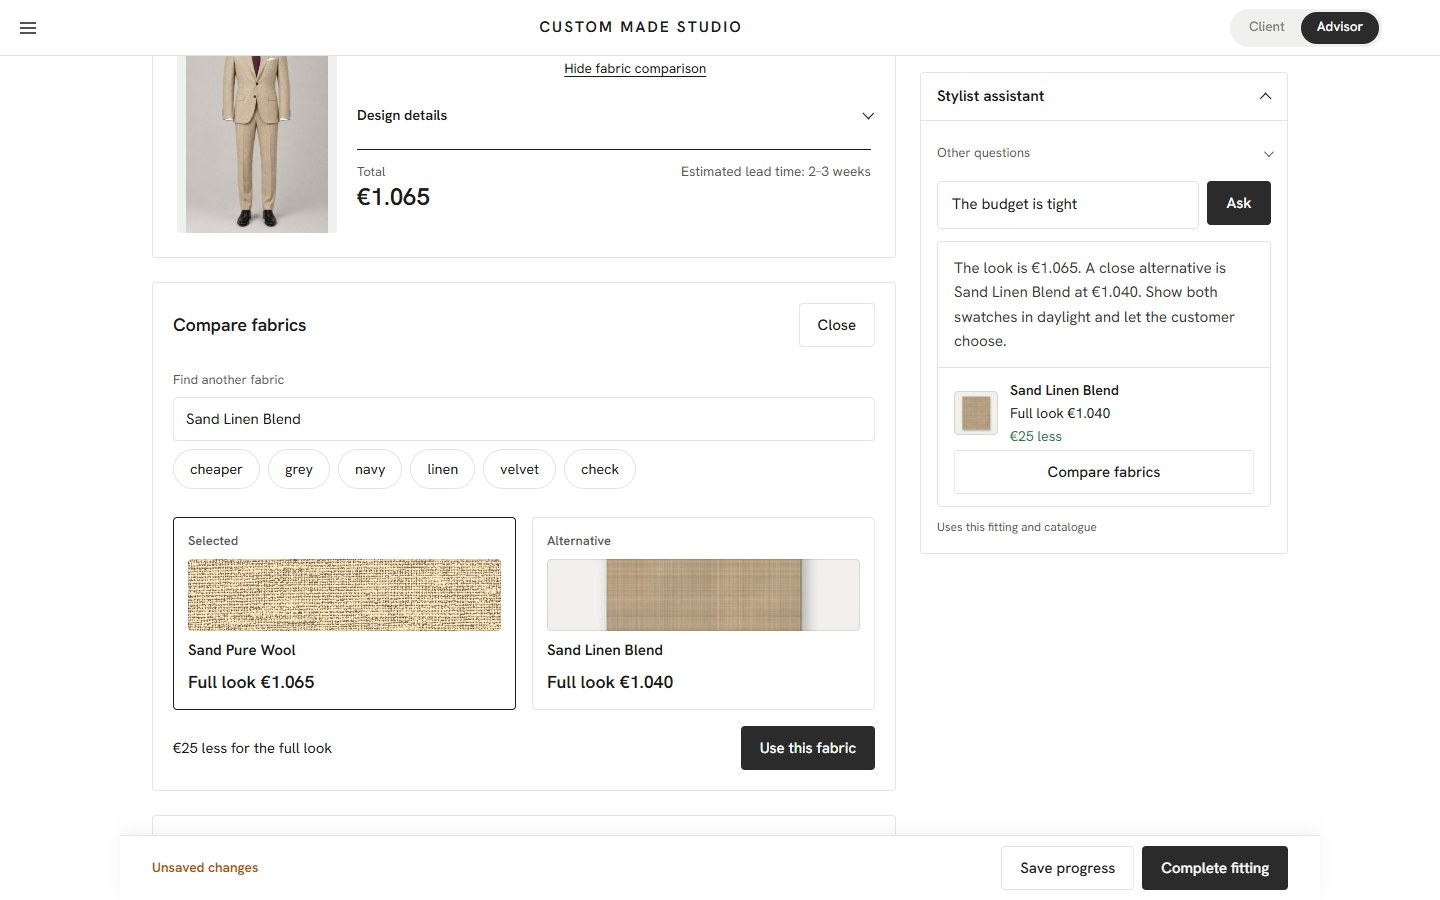
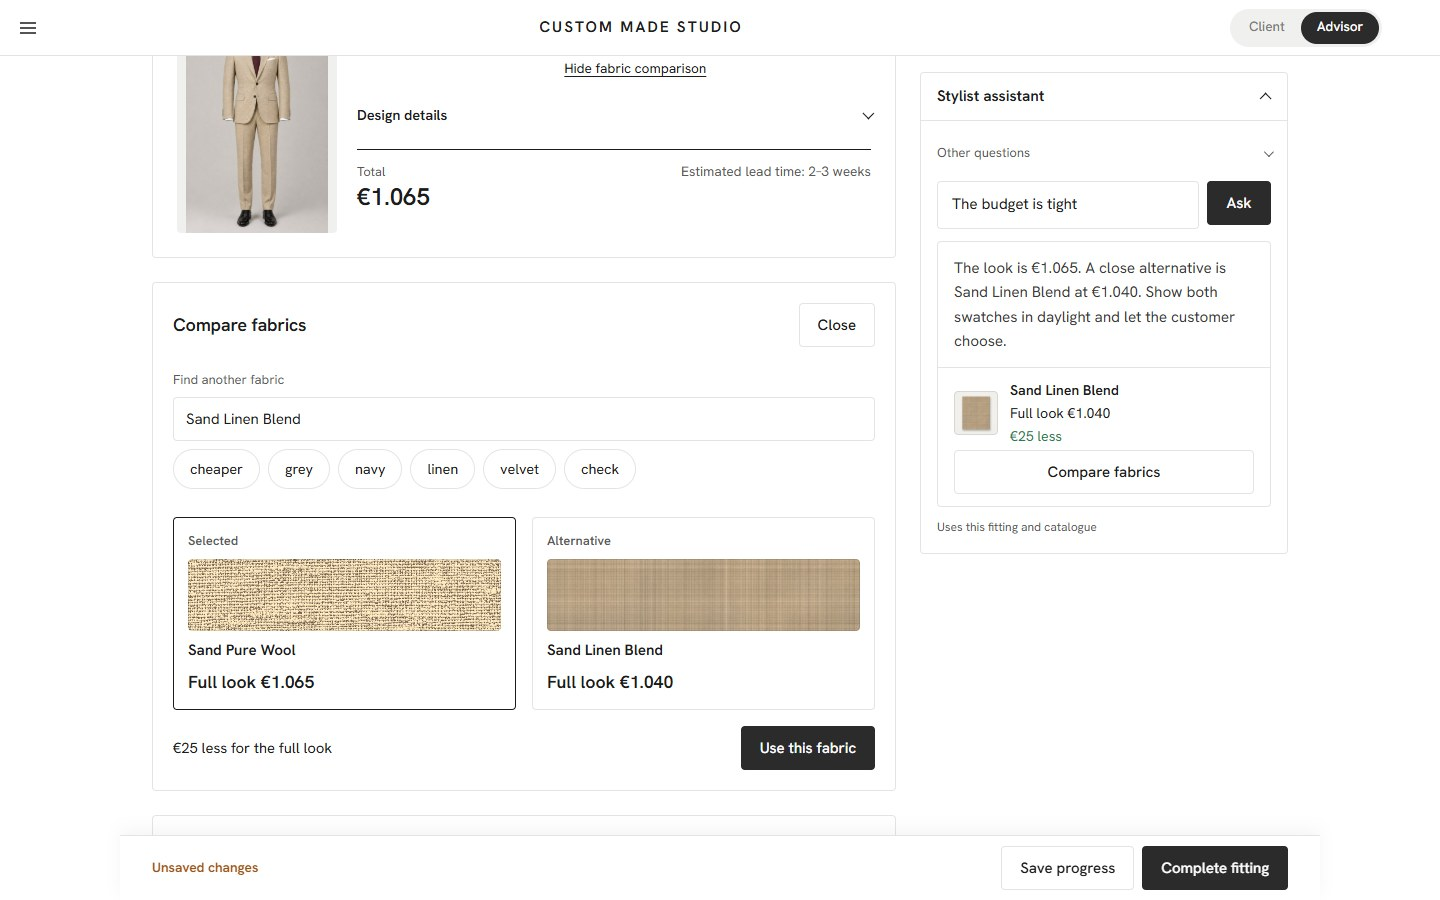
Polish: matching fabric swatches in the comparison, stale assistant answer cleared after changing fabric; 144 checks

Changed region(s): [[0.5312, 0.6222, 0.625, 0.7156], [0.375, 0.6222, 0.4375, 0.7156]]

diff --git a/js/app.js b/js/app.js
@@ -866,8 +866,8 @@
       $('clothPair').hidden = !alt;
       if (!alt) return;
       var current = cloth(), price = total(), delta = eur(alt.usd) - eur(current.usd);
-      $('firstSwatch').setAttribute('style', swatch(current, 120));
-      $('secondSwatch').setAttribute('style', swatch(alt, 120));
+      $('firstSwatch').setAttribute('style', swatch(current, 400));
+      $('secondSwatch').setAttribute('style', swatch(alt, 400));
       $('firstName').textContent = current.name; $('secondName').textContent = alt.name;
       $('firstPrice').textContent = 'Full look ' + money(price); $('secondPrice').textContent = 'Full look ' + money(price + delta);
       $('priceChange').textContent = delta === 0 ? 'Same total price' : money(Math.abs(delta)) + (delta > 0 ? ' more' : ' less') + ' for the full look';
@@ -880,7 +880,7 @@
       var alt = byId(select.value); if (!alt) return;
       var from = cloth().name;
       st.alternative = st.cloth; st.cloth = alt.id; st.target = alt.c;
-      if (advUi.answer) { advUi.answer.alt = null; advUi.answer.options = null; }
+      advUi.answer = null; /* the old answer talked about the old fabric */
       advUi.search = from;
       renderAdvisor();
       flash('Fabric changed to ' + alt.name + '. Sizes, alterations and notes are unchanged.');
